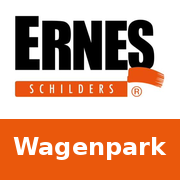
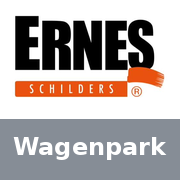
Add files via upload

diff --git a/SYSTEEM.md b/SYSTEEM.md
@@ -7335,7 +7335,7 @@ where l.soort = 'incident'
 
 **Wat het is.** De pagina bij de database van 21 en 22 november. Eén bestand, `wagenpark.html`, in de repo `GianErnes/schilders-calc`, adres https://gianernes.github.io/schilders-calc/wagenpark.html. Geen nieuwe tabel, geen SQL, geen Edge Function, geen cronjob. De pagina leest en schrijft de vijf `wp_`-tabellen, leest `taken_rollen`, roept `wp_termijnen_stand()` aan en gebruikt de bak `wagenpark`. De tabel `taken` raakt de pagina niet aan; dat doen de triggers.
 
-**Bestanden van deze release.** `wagenpark.html` (v0.1.0), `CHANGELOG_wagenpark.md`, `apple-touch-icon-wagenpark.png` (180 bij 180, gemaakt uit `apple-touch-icon-oplevering.png` met een andere tekst in de balk), `start.html` v0.4.0 met `CHANGELOG_start.md` (tegel Wagenpark na Personeel), en dit document.
+**Bestanden van deze release.** `wagenpark.html` (v0.1.0), `CHANGELOG_wagenpark.md`, `apple-touch-icon-wagenpark.png` (180 bij 180, gemaakt uit `apple-touch-icon-oplevering.png` met een andere tekst in de balk; de balk is op verzoek van Gian dezelfde avond zilvergrijs gemaakt, `#868d96`, omdat het oranje op het beginscherm niet van Oplevering te onderscheiden was), `start.html` v0.4.0 met `CHANGELOG_start.md` (tegel Wagenpark na Personeel), en dit document.
 
 **Besluiten van Gian, 22-11-2026.**
 - De mannen komen op de pagina via een eigen icoon op het beginscherm van de telefoon, zoals bij Oplevering. `taken.html` is niet gewijzigd.
@@ -7372,7 +7372,7 @@ where bucket_id = 'backups' and name like 'bestanden/wagenpark/%';
 ```
 
 **Open na deze release.**
-- `sql/wagenpark_01_tabellen.sql` en `sql/wagenpark_02_incident_taak_km.sql` staan niet in de repo (GEMETEN 22-11-2026, 15:08 UTC: beide geven 404). De database is zonder die bestanden niet opnieuw op te bouwen.
+- `sql/wagenpark_01_tabellen.sql` en `sql/wagenpark_02_incident_taak_km.sql` staan sinds de avond van 22-11-2026 in de repo, door Gian geupload (GEMETEN 20:55 UTC: 36.415 en 19.859 bytes; om 15:08 UTC gaven beide nog 404). De namen van de 5 tabellen, 14 functies en 14 triggers in de bestanden komen overeen met wat live gemeten is. De inhoud van de functies is niet regel voor regel naast de database gelegd.
 - Stap 2: banden, vloeistoffen, documenten, sleutels, tankpas. Later: vervangingssignaal, kenteken aanvullen via open data van de RDW (AANNAME dat dit kan, eerst opzoeken en testen), kosten per bus naar `financieel.html`.
 
 **Bij nood.**
